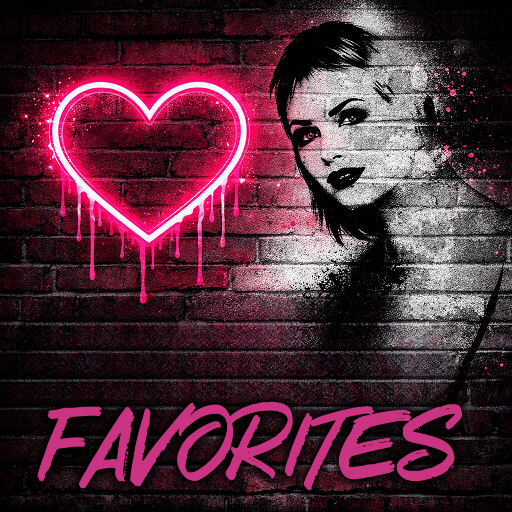
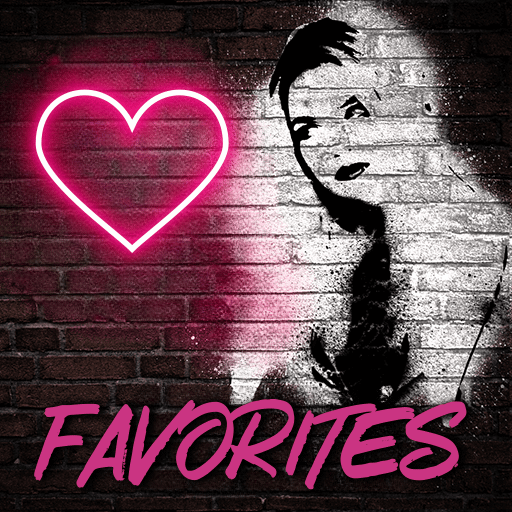
Added thumbnails for addon start screen

diff --git a/plugin.video.cumination/default.py b/plugin.video.cumination/default.py
@@ -67,12 +67,12 @@ def INDEX():
         url_dispatcher.add_dir('[COLOR white]{}[/COLOR]'.format(utils.i18n('dnld_folder')), download_path, 'OpenDownloadFolder',
                                basics.cum_image('cum-downloads.png'), '', list_avail=False)
 
-    url_dispatcher.add_dir('[COLOR white]{}[/COLOR]'.format(utils.i18n('custom_list')), '', 'favorites.create_custom_list', Folder=False, list_avail=False)
+    url_dispatcher.add_dir('[COLOR white]{}[/COLOR]'.format(utils.i18n('custom_list')), '', 'favorites.create_custom_list', basics.cum_image('cum-custom.png'), Folder=False, list_avail=False)
     for rowid, name in favorites.get_custom_lists():
-        url_dispatcher.add_dir(name, str(rowid), 'favorites.load_custom_list', list_avail=False, custom_list=True)
+        url_dispatcher.add_dir(name, str(rowid), 'favorites.load_custom_list', basics.cum_image('cum-mylist.png'), list_avail=False, custom_list=True)
     favorites.load_custom_list('main')
     url_dispatcher.add_dir('[COLOR white]{}[/COLOR]'.format(utils.i18n('clear_cache')), '', 'utils.clear_cache',
-                           basics.cuminationicon, '', Folder=False, list_avail=False)
+                           basics.cum_image('cum-cache.png'), '', Folder=False, list_avail=False)
 
     utils.eod(basics.addon_handle, False)
 
